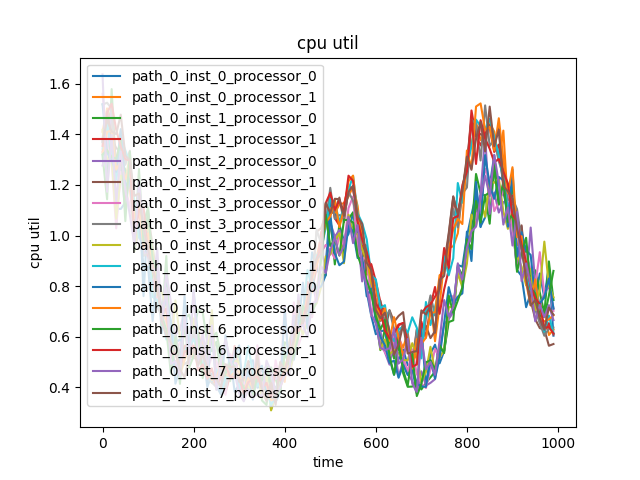
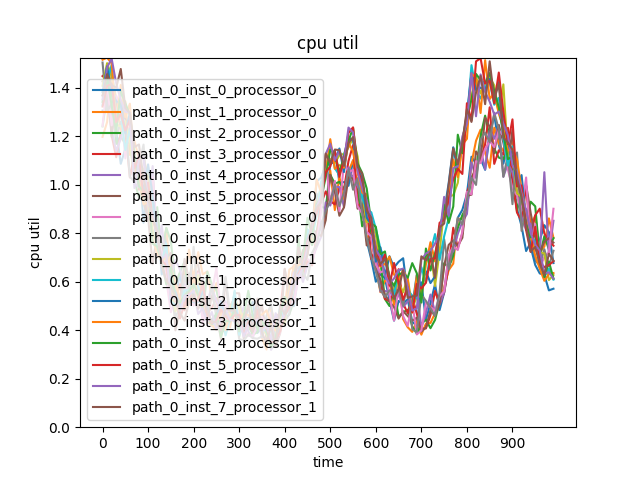
update cpu util

diff --git a/SP_Metric_Opt/Gen_Taskset/gen_taskset.py b/SP_Metric_Opt/Gen_Taskset/gen_taskset.py
@@ -1336,6 +1336,214 @@ def load_and_fill_taskset_param_file(taskset_param_fpath):
 
 ################################ main api ################################
 
+'''
+def redraw_cpu_utils(dirpath):
+    proc_cpu_util_lst = []
+    for itv in range(100):    
+        p = 0
+        
+        while True:
+            fpath = f"taskset_characteristics_i{itv}_p{p}.yaml"
+            fpath = os.path.join(dirpath,fpath)
+            if not os.path.exists(fpath):
+                #print(fpath,'not exist')
+                break
+
+            if itv == 0:
+                proc_cpu_util_lst.append([])
+
+            with open(fpath, "r") as f:
+                # load params
+                taskchar_param = yaml.safe_load(f)
+                n_tasks = len(taskchar_param['tasks'])
+                cpu_util = 0
+                for i in range(0,n_tasks):
+                    et = taskchar_param['tasks'][i]['execution_time_mu']
+                    prd = taskchar_param['tasks'][i]['period']
+                    cpu_util += et/prd
+                
+                #print(f'itv={itv}, proc={p}, cpu_util={cpu_util}')
+                proc_cpu_util_lst[p].append(cpu_util)
+                
+                p += 1
+    
+    for c in proc_cpu_util_lst:
+        print(c)
+'''
+
+
+# tasks is like
+# tasks = [
+#    {'period': 20, 'execution_times': [4, 3, 5, 4, 3]},  # Task 1, execution times for each period
+#    {'period': 30, 'execution_times': [6, 5, 4, 7, 6]},  # Task 2
+#    {'period': 50, 'execution_times': [10, 9, 8, 10, 9]}  # Task 3
+# ]
+# interval = 10
+# max_times = 1000
+def calculate_cpu_utilization(tasks, interval, max_time):
+    utilizations = [] # 每个interval的cpu_util
+    
+    for t in range(0, max_time, interval):
+        utilizations.append(0)
+    
+    # 每个task, execution time spread into utilizations
+    for task in tasks:
+        period = task['period'] / 1000 # convert ms to s
+        execution_times = task['execution_times']
+        
+        for i in range(len(execution_times)):
+            # period is ms, convert to s
+            idx = int( (period*i) // interval )
+            # interval is idx*interval, (idx+1)*interval
+            t_in_idx_interval =  (idx+1)*interval - (period*i)
+            r = t_in_idx_interval / period
+            if r>1.0:
+                r = 1.0
+            utilizations[idx] += execution_times[i]/1000*r
+            if idx<len(utilizations)-1:
+                utilizations[idx+1] += execution_times[i]/1000*(1-r)         
+    
+    for i in range(len(utilizations)):
+        utilizations[i] = utilizations[i] / interval    
+
+    return utilizations
+
+def redraw_cpu_utils(dirpath):
+    # draw cpu util for each processor each path instance
+    # path_Et_task_gid_0_inst.txt: x,y,et
+    
+    global g_update_mean_sigma_interval_s
+    n_sec = 1000
+    
+    # figure out n_proc and gids on each processor
+    gid_prds = []
+    n_proc = 0
+    while True:
+        fpath = f"taskset_characteristics_i0_p{n_proc}.yaml"
+        fpath = os.path.join(dirpath,fpath)
+        if not os.path.exists(fpath):
+            #print(fpath,'not exist')
+            break
+        
+        gid_prds.append([])
+        with open(fpath, "r") as f:
+            # load params
+            taskchar_param = yaml.safe_load(f)
+            n_tasks = len(taskchar_param['tasks'])        
+            for i in range(0,n_tasks):
+                gid = taskchar_param['tasks'][i]['gid']
+                prd = taskchar_param['tasks'][i]['period']
+                e = {'gid':gid,'period':prd}
+                gid_prds[n_proc].append(e)
+            
+            n_proc += 1
+    
+    # figure out n_inst_per_path
+    n_inst = 0
+    while True:
+        fpath = f"path_Et_task_0_0_{n_inst}.txt"
+        fpath = os.path.join(dirpath,fpath)
+        if not os.path.exists(fpath):
+            #print(fpath,'not exist')
+            break
+        n_inst += 1
+    
+    print(n_inst)
+    
+    def read_ets(fpath):
+        # Open the file in read mode
+        ets = []
+        with open(fpath, 'r') as file:
+            # Loop through each line in the file
+            for line in file:
+                # Strip leading/trailing whitespace and split the line by commas
+                values = line.strip().split(',')
+                
+                # Convert the values to the appropriate types
+                int1 = int(values[0])
+                int2 = int(values[1])
+                float_value = float(values[2])
+                ets.append(float_value)
+            
+        return ets
+        
+    #print(gid_prds)
+    cpu_util_inst_processors = []
+    for p in range(n_proc):
+        cpu_util_insts = []
+        for inst in range(n_inst):
+            
+            tasks = [] # all tasks for this processor, this instance
+            for gid_prd in gid_prds[p]:
+                gid = gid_prd['gid']
+                prd = gid_prd['period']
+                fpath = f"path_Et_task_{gid}_0_{inst}.txt"
+                fpath = os.path.join(dirpath,fpath)
+                ets = read_ets(fpath)
+                
+                tasks.append( {'period':prd,'execution_times':ets} )
+            
+            utilizations = calculate_cpu_utilization(tasks,g_update_mean_sigma_interval_s,n_sec)
+            #print(utilizations)
+            cpu_util_insts.append(utilizations)
+            
+        cpu_util_inst_processors.append(cpu_util_insts)
+    
+    #print(cpu_util_inst_processors)
+    
+    nn = math.ceil(n_sec/g_update_mean_sigma_interval_s)    
+    xx = []
+    for i in range(nn):
+        xx.append(g_update_mean_sigma_interval_s * i)
+    max_utilization = max([max([max(cpu_util_inst_processors[pp][si]) for si in range(n_inst)]) for pp in range(n_proc)])
+    
+    # draw for each processor
+    for pp in range(n_proc):
+        fig, ax = plt.subplots()
+        for si in range(n_inst):
+            print('len xx is',len(xx))
+            print('len util is',len(cpu_util_inst_processors[pp][si]))
+            print('util',cpu_util_inst_processors[pp][si])
+            ax.plot(xx,cpu_util_inst_processors[pp][si], label=f"path_0_inst_{si}_processor_{pp}")
+            si += 1
+            #break
+
+        ax.set_xticks(range(0, int(xx[-1]), 100))  # Create ticks at intervals of 100
+        ax.set_ylim(0, max_utilization)
+
+        ax.set_xlabel('time')
+        ax.set_ylabel('cpu util')
+        ax.set_title(f'cpu {pp} util')
+        ax.legend()
+        # Save the figure to a file
+        cpu_util_path = os.path.join(dirpath, f"cpu_util_new_{pp}.png")
+        plt.savefig(cpu_util_path)
+
+    # draw all processor together
+    fig, ax = plt.subplots()
+    for pp in range(n_proc):
+        for si in range(n_inst):
+            print('len xx is',len(xx))
+            print('len util is',len(cpu_util_inst_processors[pp][si]))
+            print('util',cpu_util_inst_processors[pp][si])
+            ax.plot(xx,cpu_util_inst_processors[pp][si], label=f"path_0_inst_{si}_processor_{pp}")
+            si += 1
+            #break
+
+    ax.set_xticks(range(0, int(xx[-1]), 100))  # Create ticks at intervals of 100
+    ax.set_ylim(0, max_utilization)
+
+    ax.set_xlabel('time')
+    ax.set_ylabel('cpu util')
+    ax.set_title('cpu util')
+    ax.legend()
+    # Save the figure to a file
+    cpu_util_path = os.path.join(dirpath, f"cpu_util_new.png")
+    plt.savefig(cpu_util_path)
+
+
+#redraw_cpu_utils('../TaskData/taskset_cfg_multip_10_5_2')
+#quit()
 
 # generte path and Et 
 # if path_idx is not None, continue generating path_Et from that path_idx
@@ -1499,7 +1707,7 @@ def cont_gen_path_Et(cfgs,dir_path,n_path_per_task,n_inst_per_path,
 
             # ax.plot(xx,cpu_utils, label=f"path_{k}_inst_{si}")
             # plt.show()
-            cpu_util_lst_1.append(cpu_utils)
+            cpu_util_lst_1.append( )
 
             #cpu_util_path = os.path.join(dir_path, f"path_cpu_util_path_{k}.txt")
             #with open(cpu_util_path, 'w') as f:
@@ -1523,6 +1731,9 @@ def cont_gen_path_Et(cfgs,dir_path,n_path_per_task,n_inst_per_path,
                 ax.plot(xx,si_c[pp], label=f"path_{k}_inst_{si}_processor_{pp}")
             si += 1
         k+=1
+
+    ax.set_xticks(range(0, int(xx[-1]), 100))  # Create ticks at intervals of 100
+
     ax.set_xlabel('time')
     ax.set_ylabel('cpu util')
     ax.set_title('cpu util')
@@ -1544,6 +1755,10 @@ def cont_gen_path_Et(cfgs,dir_path,n_path_per_task,n_inst_per_path,
                 ax.plot(xx,si_c[pp], label=f"path_{k}_inst_{si}_processor_{pp}")
                 si += 1
             k+=1
+        
+        # Set x-axis labels every 100 units
+        ax.set_xticks(range(0, int(xx[-1]), 100))  # Create ticks at intervals of 100
+
         ax.set_xlabel('time')
         ax.set_ylabel(f'cpu {pp} util ')
         ax.set_title(f'cpu {pp} util')
